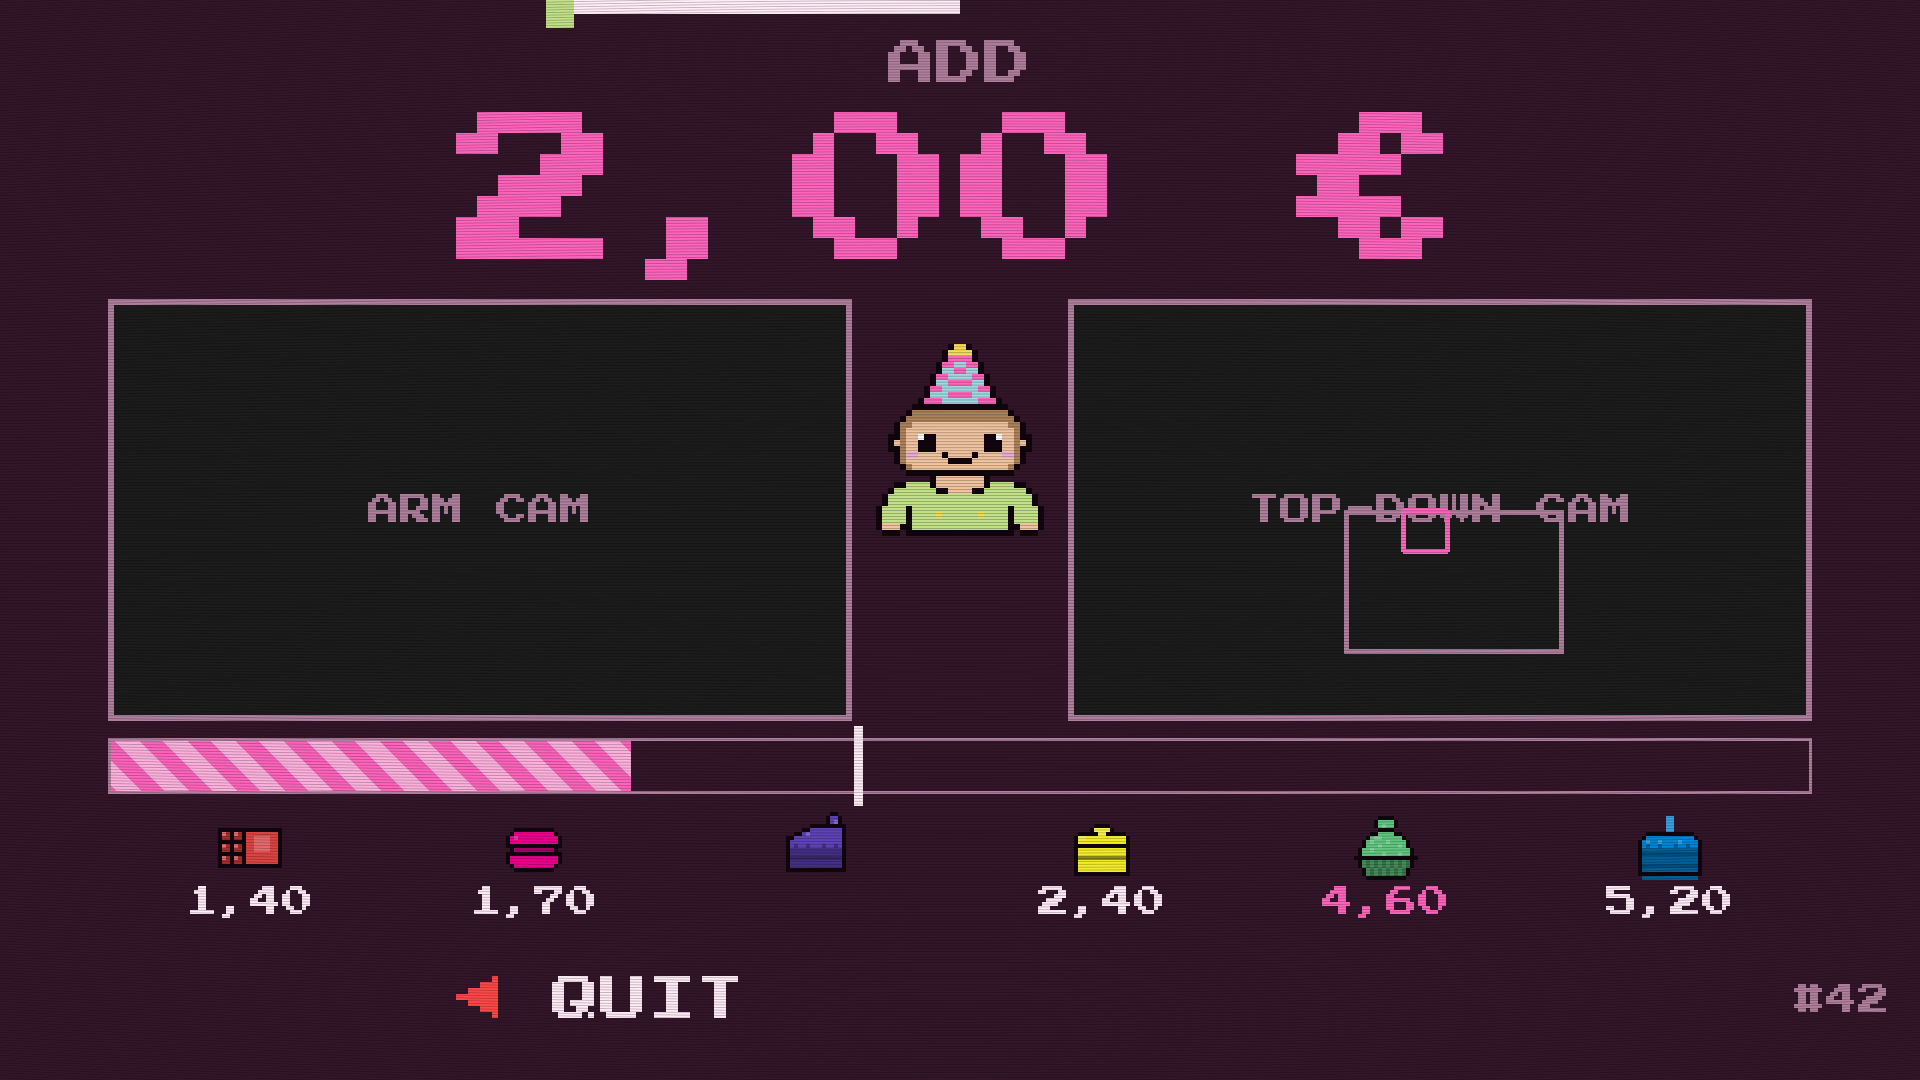
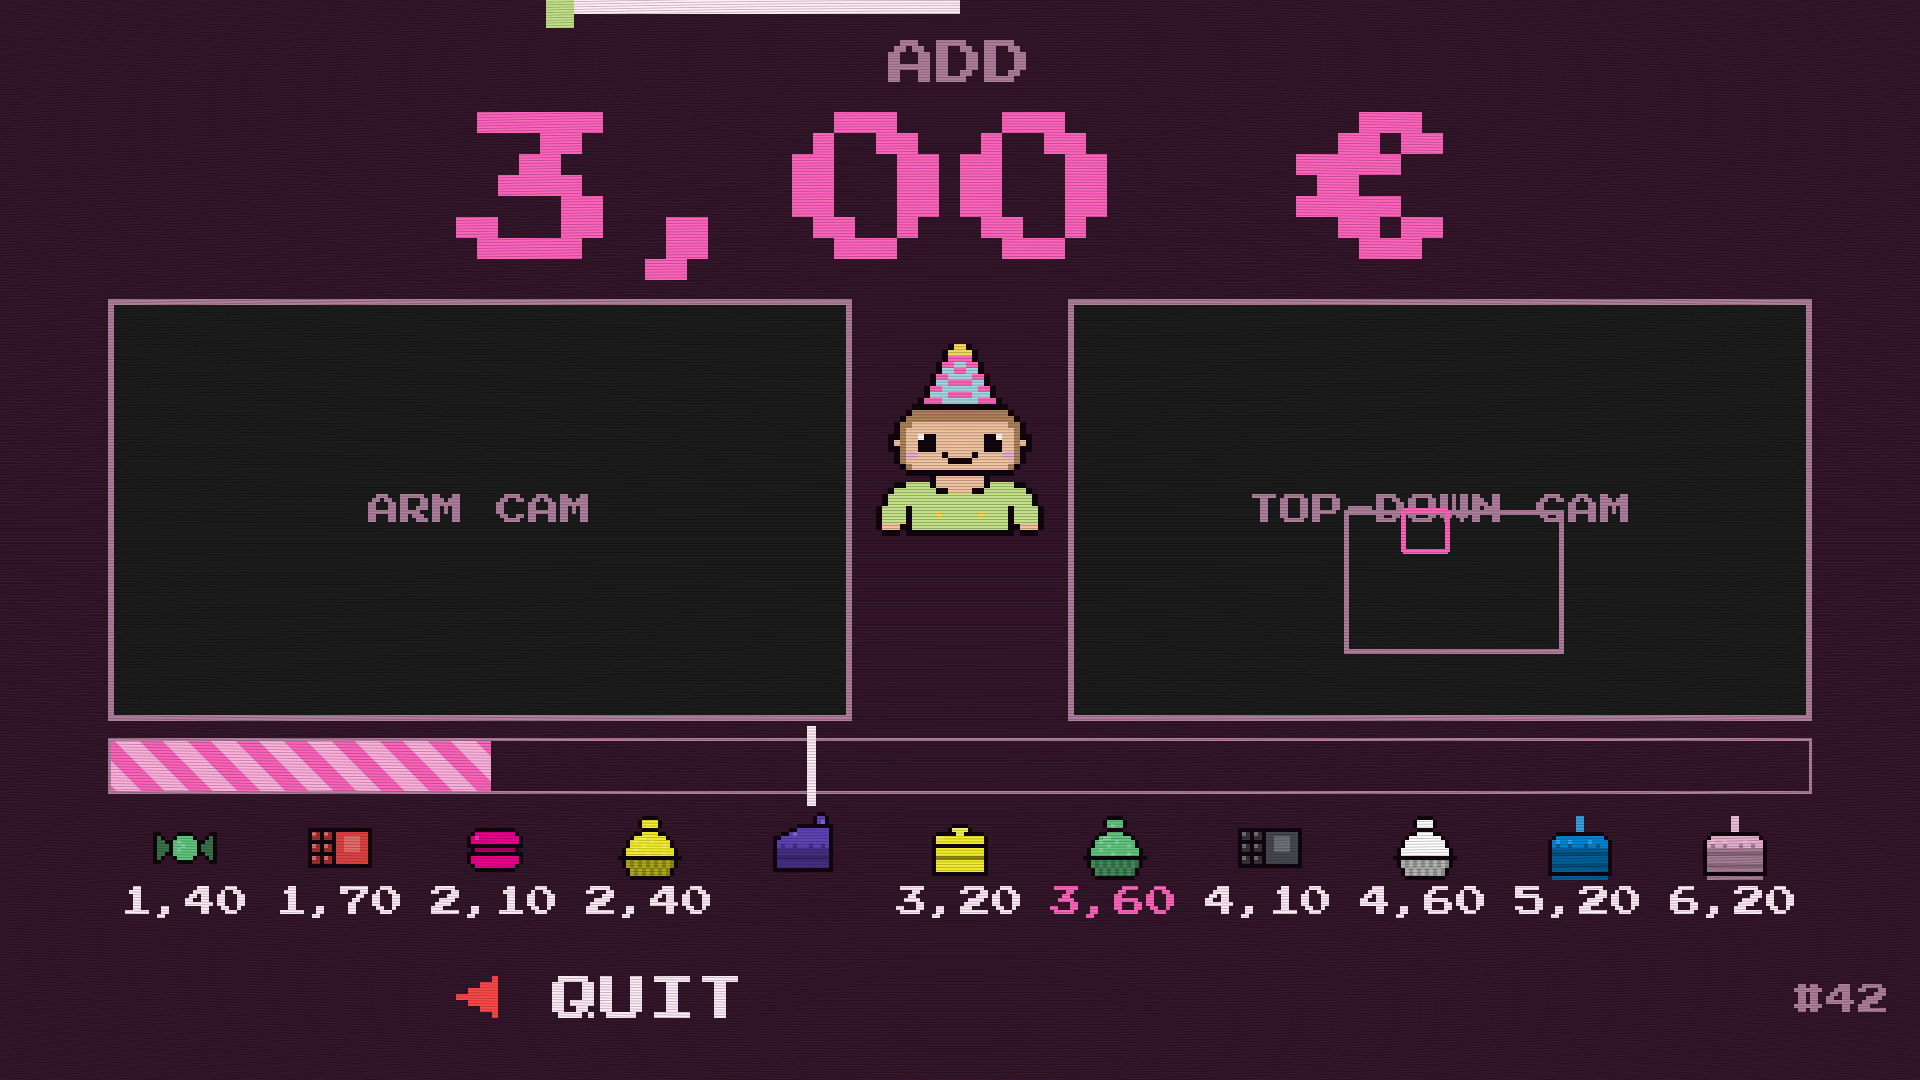
feat: reprint plate, eleven treats on the tray
tools/nachdruck.py builds one H2C plate: macaron, cup_mini, bonbon,
cup_vanille, a bigger riegel and a two-tier torte, each one filament plus
white or black marker cells. VALUES grows to eleven, sorted by volume; the
extra step 6.20 for the two-tier torte leaves 27 targets for an empty tray.
Five new _solid sprites, the story demo carries the dearest cupcake (the
only shape with a waist), shots take their prices from VALUES.

diff --git a/tools/nachdruck.py b/tools/nachdruck.py
@@ -1,0 +1,128 @@
+"""Reprint plate 2026-09-28: six treats, one filament each plus marker cells.
+
+    uv run tools/nachdruck.py build/voxel/nachdruck_2026-09-28.3mf
+
+One 3MF, one plate, extruders by AMS slot (EXT). Writes a preview PNG next to it."""
+import json, sys, zipfile
+import numpy as np
+sys.path.insert(0, "tools")
+import voxel as v
+from voxel import solid, cupcake, macaron, berliner, marked, mesh, hexcol, found, N, VOX, FINE, box, stack, disc, I, J, X, Y, STRIPE
+
+
+def bar_big(wrap, choc):
+    """riegel one size up: 80 x 50, a layer taller, chunks on the left."""
+    body, left = box(16, 10), X < -3
+    blocks = left & ((I - 0) % 3 < 2) & ((J - 3) % 3 < 2)
+    return stack((body, np.where(left, choc, wrap)), (body, np.where(left, choc, wrap)),
+                 (body & (blocks | ~left), np.where(left, choc, wrap)))
+
+
+def bonbon(wrap):
+    """Lying bonbon like the sprite: flat round middle (the marker's), a
+    twisted fan of wrapper on either side, one layer lower."""
+    fan = (np.abs(X) > 3.5) & (np.abs(X) < 7.5) & (np.abs(Y) <= np.abs(X) - 3)
+    return stack((disc(3.6) | fan, wrap), (disc(3.6) | fan, wrap), (disc(3.6), wrap))
+
+
+def cake_big(frost, sponge, jam):
+    """Two tiers on the torte's 50 mm footprint (the gripper wedge caps the
+    width, so bigger has to go up). No candles: in one filament they fill the
+    ledge and the tiers stop reading as tiers."""
+    drip = ~disc(4.4) & STRIPE
+    return stack(*[(disc(5.2), f) for f in (sponge, jam, sponge, sponge, jam)],
+                 (disc(5.2), np.where(drip, frost, sponge)), (disc(5.2), frost),
+                 *[(disc(3.6), f) for f in (sponge, jam, sponge, frost)])
+
+# name -> (base plan, body, marker cells, marker id, plate xy)
+SET = {   # name -> (plan, body, marker cells, id, plate xy); one body colour each
+    "macaron":      (lambda: macaron("a", "a"), "hot_pink", "ivory", 0, (50, 60)),
+    "cup_mini":     (v.TREATS["cup_mini"], "yellow", "charcoal", 10, (115, 60)),
+    "bonbon":       (lambda: bonbon("a"), "grass_green", "charcoal", 4, (195, 60)),
+    "cup_vanille":  (v.TREATS["cup_vanille"], "ivory", "charcoal", 5, (50, 140)),
+    "torte_gross":  (lambda: cake_big("a", "a", "a"), "sakura", "charcoal", 8, (125, 140)),
+    "riegel_gross": (lambda: bar_big("a", "a"), "charcoal", "ivory", 7, (125, 215)),
+}
+EXT = ["hot_pink", "sakura", "ivory", "charcoal", "yellow", "grass_green"]      # AMS slot order
+
+objs, items, cfg, oid, grids = [], [], [], 0, {}
+for name, (plan, body, cell, mid, (px, py)) in SET.items():
+    v.TREATS[name] = lambda plan=plan, body=body: solid(plan(), body)
+    # Search region: the marker must stay on one level, not spill down a cone or
+    # off the top tier onto the ledge 20 mm below.
+    region = {"riegel_gross": X > -3, "torte_gross": disc(3.6), "cup_vanille": disc(3.6)}.get(
+        name, v.MARKERS.get(name, (0, 0, 0, None))[3] if name in v.MARKERS else None)
+    v.MARKERS[name] = (mid, cell, body, region)
+    g, c = marked(name)
+    assert found(g, mid), name
+    full = g != ""
+    print(f"{name:12} #{mid:<2} {body:8}/{cell:8} marker {6*c} mm  "
+          f"{full.any(axis=(1,2)).sum()*FINE:.0f}x{full.any(axis=(0,2)).sum()*FINE:.0f}x{g.shape[2]*FINE:.0f} mm  "
+          f"{full.sum()*FINE**3/1000:.0f} cm3")
+    grids[name] = g
+    parts = []
+    for fil in sorted(set(g[full])):
+        oid += 1
+        tris = mesh(g == fil)[0]
+        vv, idx = __import__("numpy").unique(tris.reshape(-1, 3), axis=0, return_inverse=True)
+        vv -= [N * VOX / 2, N * VOX / 2, 0]
+        objs.append(f'<object id="{oid}" type="model"><mesh><vertices>'
+                    + "".join(f'<vertex x="{a:g}" y="{b:g}" z="{c_:g}"/>' for a, b, c_ in vv)
+                    + "</vertices><triangles>"
+                    + "".join(f'<triangle v1="{a}" v2="{b}" v3="{c_}"/>' for a, b, c_ in idx.reshape(-1, 3))
+                    + "</triangles></mesh></object>")
+        parts.append((oid, fil))
+    oid += 1
+    objs.append(f'<object id="{oid}" type="model"><components>'
+                + "".join(f'<component objectid="{k}"/>' for k, _ in parts) + "</components></object>")
+    items.append(f'<item objectid="{oid}" transform="1 0 0 0 1 0 0 0 1 {px} {py} 0" printable="1"/>')
+    unit = "1 0 0 0 0 1 0 0 0 0 1 0 0 0 0 1"
+    cfg.append(f'<object id="{oid}"><metadata key="name" value="{name}_{mid}"/><metadata key="extruder" value="1"/>\n'
+               + "".join(f'<part id="{k}" subtype="normal_part"><metadata key="name" value="{f}"/>'
+                         f'<metadata key="matrix" value="{unit}"/><metadata key="extruder" value="{EXT.index(f) + 1}"/></part>\n'
+                         for k, f in parts) + "</object>\n")
+    cfg_ids = [int(o.split('"')[1]) for o in cfg]
+
+model = ('<?xml version="1.0" encoding="UTF-8"?>\n<model unit="millimeter" xml:lang="en-US" '
+         'xmlns="http://schemas.microsoft.com/3dmanufacturing/core/2015/02" '
+         'xmlns:BambuStudio="http://schemas.bambulab.com/package/2021">\n'
+         '<metadata name="Application">BambuStudio-02.07.01.62</metadata>\n'
+         '<metadata name="Title">nachdruck</metadata>\n'
+         f'<resources>{"".join(objs)}</resources>\n<build>{"".join(items)}</build>\n</model>\n')
+settings = ('<?xml version="1.0" encoding="UTF-8"?>\n<config>\n' + "".join(cfg)
+            + '<plate><metadata key="plater_id" value="1"/><metadata key="locked" value="false"/>'
+            + "".join(f'<model_instance><metadata key="object_id" value="{i}"/><metadata key="instance_id" value="0"/></model_instance>'
+                      for i in cfg_ids) + '</plate>\n</config>\n')
+project = json.dumps({"filament_colour": [hexcol(f) for f in EXT],
+                      "filament_settings_id": ["Bambu PLA Matte @BBL X1C"] * len(EXT),
+                      "filament_type": ["PLA"] * len(EXT), "version": "02.07.01.62"}, indent=4)
+out = sys.argv[1]
+with zipfile.ZipFile(out, "w", zipfile.ZIP_DEFLATED) as z:
+    z.writestr("[Content_Types].xml",
+               '<?xml version="1.0" encoding="UTF-8"?>\n<Types xmlns="http://schemas.openxmlformats.org/package/2006/content-types">'
+               '<Default Extension="rels" ContentType="application/vnd.openxmlformats-package.relationships+xml"/>'
+               '<Default Extension="model" ContentType="application/vnd.ms-package.3dmanufacturing-3dmodel+xml"/>'
+               '<Default Extension="config" ContentType="text/xml"/></Types>')
+    z.writestr("_rels/.rels",
+               '<?xml version="1.0" encoding="UTF-8"?>\n<Relationships xmlns="http://schemas.openxmlformats.org/package/2006/relationships">'
+               '<Relationship Target="/3D/3dmodel.model" Id="rel0" '
+               'Type="http://schemas.microsoft.com/3dmanufacturing/2013/01/3dmodel"/></Relationships>')
+    z.writestr("3D/3dmodel.model", model)
+    z.writestr("Metadata/model_settings.config", settings)
+    z.writestr("Metadata/project_settings.config", project)
+print("wrote", out)
+
+import pygame                                            # preview next to the 3MF
+tiles = [v.iso(g, 8 / v.SUB) for g in grids.values()]
+tiles = [t.subsurface(t.get_bounding_rect()) for t in tiles]
+sheet = pygame.Surface((sum(t.get_width() for t in tiles) + 40 * len(tiles), max(t.get_height() for t in tiles) + 40))
+sheet.fill(v.BG); x = 20
+for t in tiles:
+    sheet.blit(t, (x, sheet.get_height() - 20 - t.get_height())); x += t.get_width() + 40
+pygame.image.save(sheet, out.replace(".3mf", ".png"))
+
+# Height spread of the marker cells. The cupcake cones reach 10-15 mm, which
+# the 2026-09-11 simulation allows in the tray's middle (todo.md, cone limit).
+for name, g in grids.items():
+    z = np.argwhere(g == SET[name][2])[:, 2] * FINE
+    print(f"{name:12} marker cells span {z.max() - z.min():.0f} mm in height")

diff --git a/game/config.py b/game/config.py
@@ -175,19 +175,22 @@ DUCK_RELEASE = 0.35   # seconds back to full
 # ignores any ID that isn't listed here, so a stray treat on the tray counts
 # for nothing instead of scoring a phantom.
 #
-# Sorted by printed volume, riegel 26 cm3 up to torte 80 cm3: heavier is
-# dearer is the one rule a visitor learns without reading anything. The two
-# nearest neighbours (stueck 34, petitfour 40) sit one step apart, so the
-# rule never has to explain a gap it can't show.
+# Sorted by printed volume, bonbon 26 cm3 up to the two-tier torte 99 cm3:
+# heavier is dearer is the one rule a visitor learns without reading anything.
 #
-# The price steps are the ones decided on 2026-09-11; six of the ten are in
-# use. Which six is not taste. Of all 210 ways to pick six from that ladder,
-# this is one of seven that leave 12 possible targets for an empty tray
-# instead of the median 9 -- and 12 clears the "at least ten" line that
-# balance.py's self-test draws. Its targets also still span 3.80 to 7.70,
-# the same range the ten-treat set spanned, so the story's budget lines
-# need no new numbers.
-VALUES = {1: 14, 0: 17, 6: 21, 2: 24, 11: 46, 9: 52}
+# Eleven treats since the reprint of 2026-09-28 (tools/nachdruck.py): the
+# expo set of six plus macaron, cup_mini, bonbon, cup_vanille, a bigger
+# riegel and a two-tier torte, all one filament plus marker cells. The ten
+# price steps of 2026-09-11 go to the ten lighter ones unchanged; the
+# eleventh, 6.20 for the two-tier torte, is the one of all extra steps that
+# leaves the most targets for an empty tray (27 instead of 21 with the old
+# ten). Targets span 3.80 to 8.70 now -- the budget lines only ever say
+# {goal}, so no text changes with it.
+#
+# The pink petit four from the first CMYK test also carries #2. It stays off
+# the tray: two #2 on it count once.
+VALUES = {4: 14, 1: 17, 0: 21, 10: 24, 6: 28, 2: 32,
+          11: 36, 7: 41, 5: 46, 9: 52, 8: 62}
 CENTS  = 10        # one VALUES step in cents. Only read by euro().
 
 # ── Game mode ─────────────────────────────────────────────────────────────

diff --git a/game/themes/sugar_rush.py b/game/themes/sugar_rush.py
@@ -520,6 +520,13 @@ SPRITES = {
     "petitfour_yellow": ("petitfour", _solid(YELLOW)),
     "cupcake_green":    ("cupcake",   _solid(GRASS)),
     "cake_blue":        ("cake",      _solid(BLUE)),
+    # The reprint of 2026-09-28, same rule. Black is drawn a few steps lighter
+    # than the spool, or the bar would vanish into BG.
+    "bonbon_green":     ("bonbon",    _solid(GRASS)),
+    "cupcake_yellow":   ("cupcake",   _solid(YELLOW)),
+    "bar_black":        ("bar",       _solid((72, 72, 80))),
+    "cupcake_white":    ("cupcake",   _solid(IVORY)),
+    "cake_pink":        ("cake",      _solid(SAKURA)),
     "cupcake_pink":   ("cupcake",   dict(a=SAKURA, c=ICE, d=(118, 176, 190))),
     "cupcake_lemon":  ("cupcake",   dict(a=LEMON, c=SAKURA, d=(196, 130, 168))),
     "cupcake_mint":   ("cupcake",   dict(a=APPLE, c=LILAC, d=(132, 108, 176))),
@@ -561,11 +568,12 @@ EXTRAS = {
 
 # marker_id -> sprite. The screen must show the same thing that's on the
 # tray -- otherwise the price reveal teaches the wrong association.
-# The expo set, reprinted solid after the six-colour plate failed on
-# 2026-09-25: one entry per treat, in the same order as VALUES, cheap and
-# light first. Six shapes AND six colours, because a solid object has no
-# icing or filling left to tell it apart by -- shape alone would have made
-# the two cake slices twins. Donuts stay missing on purpose: the hole cuts
-# through the marker.
-SPRITE = {1: "bar_red",          0: "macaron_hot",   6: "slice_purple",
-          2: "petitfour_yellow", 11: "cupcake_green", 9: "cake_blue"}
+# Everything printed solid (one filament plus marker cells), in the same
+# order as VALUES, cheap and light first. Shape and colour together tell the
+# treats apart: a solid object has no icing or filling left to do it. Where a
+# colour repeats (yellow, green) the shape differs. Donuts stay missing on
+# purpose: the hole cuts through the marker.
+SPRITE = {4: "bonbon_green",     1: "bar_red",        0: "macaron_hot",
+          10: "cupcake_yellow",  6: "slice_purple",   2: "petitfour_yellow",
+          11: "cupcake_green",   7: "bar_black",      5: "cupcake_white",
+          9: "cake_blue",        8: "cake_pink"}

diff --git a/tools/shots.py b/tools/shots.py
@@ -30,6 +30,7 @@ from app import Ctx, crt_gain, px                               # noqa: E402
 from config import (WIDTH, HEIGHT, FONT_PATH, FONT_SIZES, CRT,  # noqa: E402
                     BARREL_K, CAM_VIEW, GREY, BG, ROUND_SECONDS, FUSE_PULSE)
 import scenes                                                   # noqa: E402
+from config import VALUES as V, SPRITE                           # noqa: E402
 
 
 class Stub:
@@ -141,12 +142,12 @@ def shots(out):
         ("5-tutorial-done", done_tut,                                 {}),
         ("6-order",        order,                                     {}),
         ("7-game-add",     game, dict(play, left=ROUND_SECONDS * 0.7, clock=0.3,
-                                      marks={11: quad(.45)}, total=46, target=66,
-                                      pop=["cupcake_green", "+4,60", 0.4])),
+                                      marks={11: quad(.45)}, total=V[11], target=66,
+                                      pop=[SPRITE[11], "+" + scenes.euro(V[11], sign=False), 0.4])),
         ("8-game-hint",    game, dict(pop=None, still=99.0, left=FUSE_PULSE * 0.6,
                                       clock=0.3)),
         ("9-game-over",    game, dict(still=0.0, left=ROUND_SECONDS * 0.4,
-                                      marks={2: quad(.35), 9: quad(.55)}, total=76)),
+                                      marks={2: quad(.35), 9: quad(.55)}, total=V[2] + V[9])),
         ("10-game-perfect", game, dict(left=ROUND_SECONDS * 0.3, total=66, hit=1.0,
                                        marks={1: quad(.35), 9: quad(.55)},
                                        fx=burst(960, 196, 0.25))),

diff --git a/game/scenes.py b/game/scenes.py
@@ -168,13 +168,13 @@ ARM_BASE = (1130, 690)      # the base pivot: the arm stands on this point
 # Not a taste: arm.TREAT is the widest thing these jaws can close around
 # without cutting into it, and this is that width in sprite pixels.
 DEMO_SCALE = round(arm.TREAT * ARM_SCALE / arm.MM / 16)
-# Second dearest, not the middle of the ladder. arm.TREAT is only a width;
-# what the drawn jaws actually need is a silhouette with a waist, and of the
-# 2026-09-25 set exactly one shape has one -- a wide disc or box is already
-# in the jaw at the height where a cup still tapers. The self-test at the
-# bottom of this file names the frame if a theme picks a shape that clips,
-# so this stays a one-line choice instead of a rule nobody can check.
-DEMO_TREAT = LADDER[-2]
+# The dearest cupcake, not the middle of the ladder. arm.TREAT is only a
+# width; what the drawn jaws actually need is a silhouette with a waist, and
+# only the cupcake has one -- a wide disc or box is already in the jaw at the
+# height where a cup still tapers. The self-test at the bottom of this file
+# names the frame if a theme picks a shape that clips, so this stays a
+# one-line choice instead of a rule nobody can check.
+DEMO_TREAT = [s for s in LADDER if SPRITES[s][0] == "cupcake"][-1]
 # The tray stands where the arm lets go, taken from the arm's own key so the
 # two can never drift apart. The tray fills the top 7 of its 16 rows, so a
 # box centred one row below the counter puts the bowl on it.
